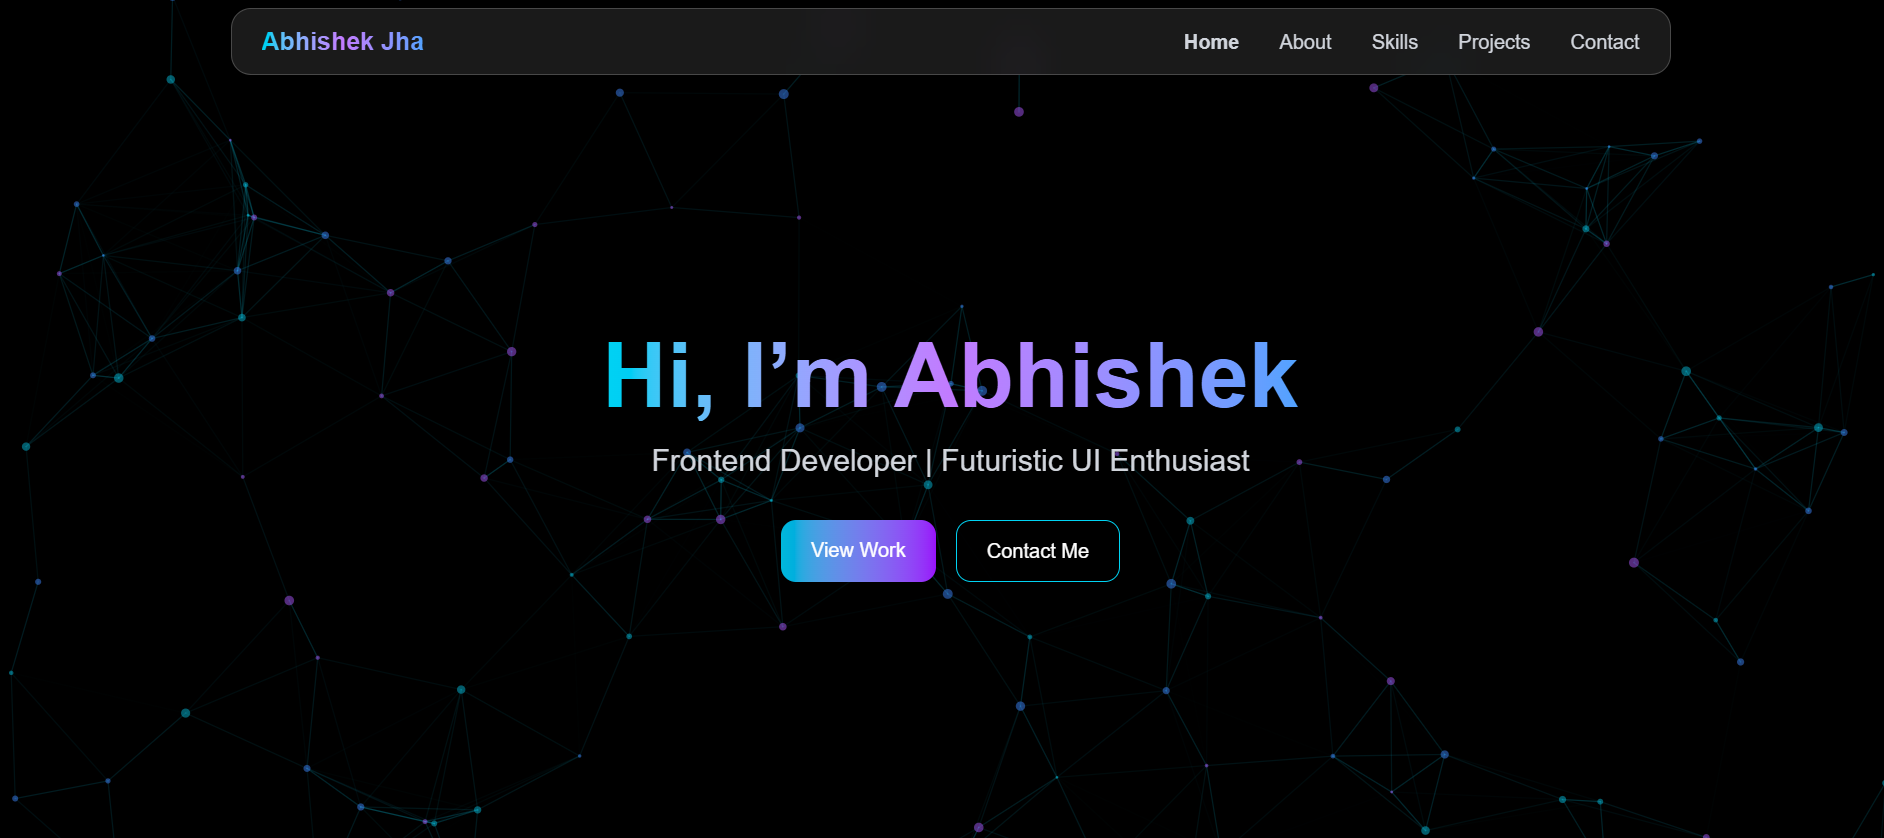
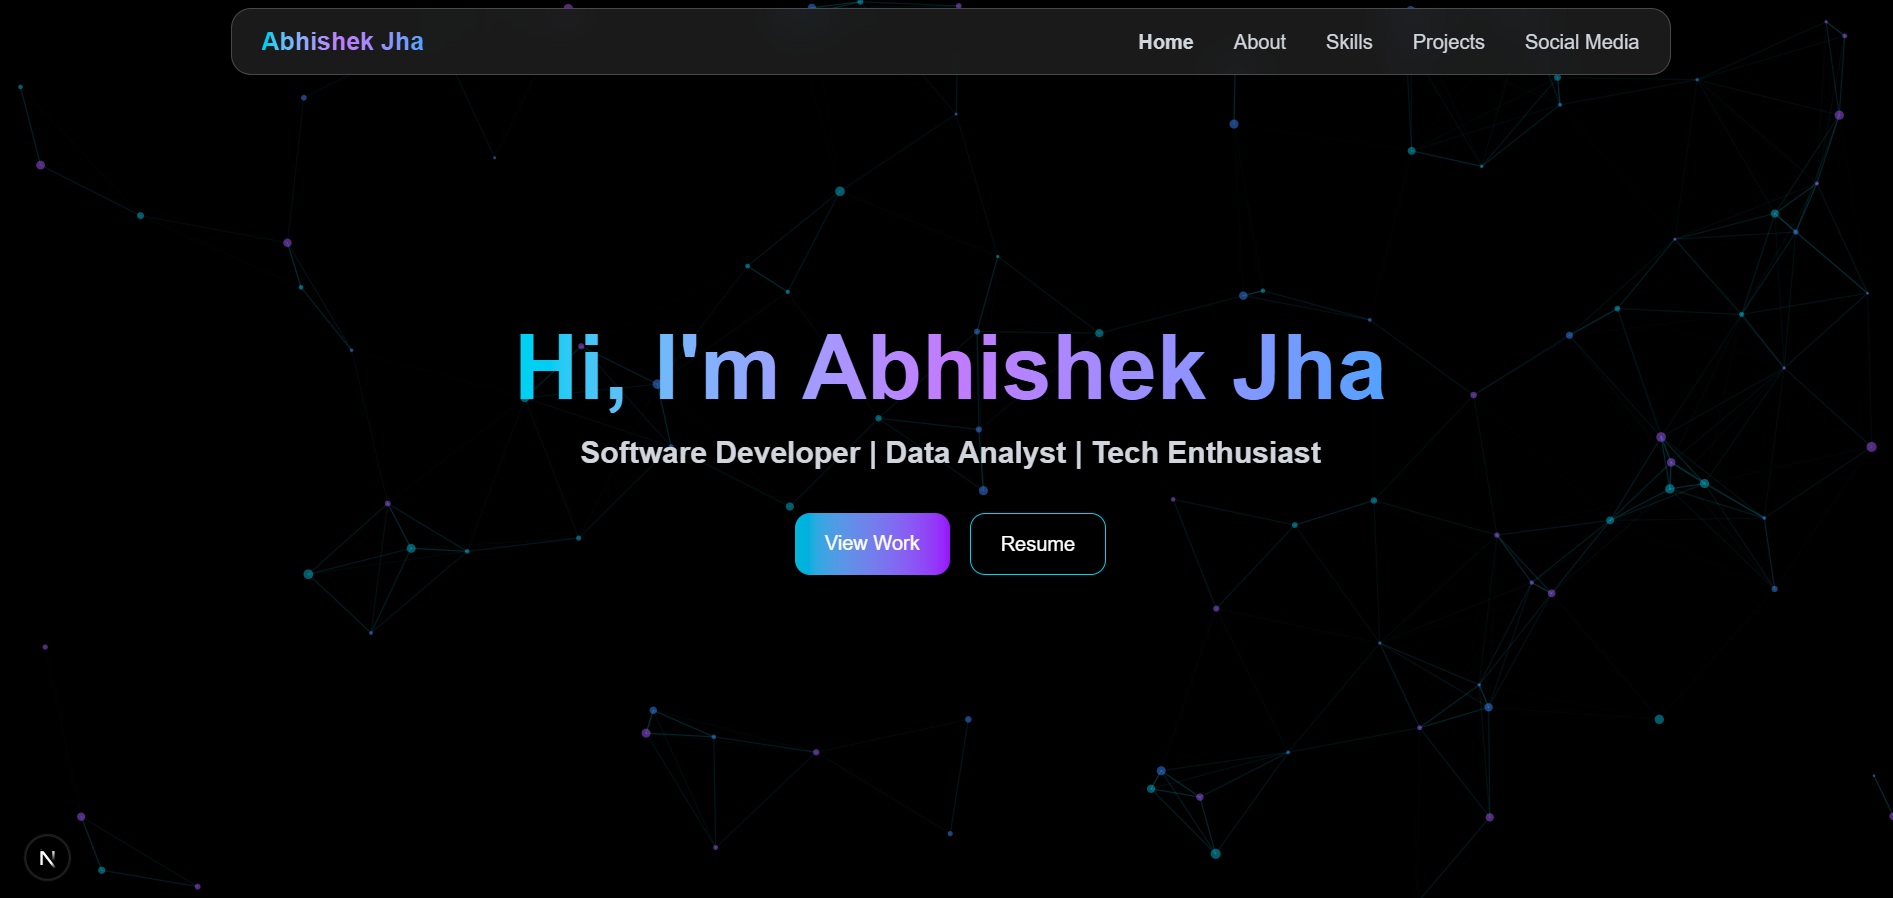
Project addition and profile changes

diff --git a/components/Projects.jsx b/components/Projects.jsx
@@ -2,30 +2,51 @@ const projects = [
   {
     title: "Portfolio",
     desc: "A modern developer portfolio built with Next.js and Tailwind.",
-    img: "/project1.png",
+    img: "/Project1.png",
     demo: "https://nextjs-abhishek-portfolio.vercel.app/",
     github: "https://github.com/Abhishek2788/nextjs-abhishek-portfolio.git",
   },
   {
     title: "Makhana E-Commerce",
-    desc: "E-commerce platform for Bihar's Makhana using Next.js.",
-    img: "/project2.png",
+    desc: "E-commerce platform for Bihar's Makhana using Next.js. Features include product browsing, detailed views, and a responsive design.",
+    img: "/Project2.png",
     demo: "https://biharmakhana.vercel.app/",
     github: "https://github.com/Abhishek2788/Bihar-s-Makhana.git",
   },
   {
     title: "Indian Saviours",
     desc: "Educational Website showing the valor of Indian armed forces using Next.js. Currently in development Mode.",
-    img: "/project3.png",
+    img: "/Project3.png",
     demo: "#",
     github: "https://github.com/Abhishek2788/Indian-Saviours.git",
   },
   {
-    title: "Buzzlab",
-    desc: "The project focuses on showcasing alcoholic drinks and cocktails with a modern and interactive design.",
-    img: "/project4.png",
+    title: "Product based Project",
+    desc: "The project focuses on showcasing alcoholic drinks and cocktails with a modern and interactive design. It includes features like drink search, detailed recipe views, and a responsive layout. Built with Next.js, Tailwind CSS, and JavaScript.",
+    img: "/Project4.png",
     demo: "https://buzzlab-world-of-drinks.vercel.app/",
     github: "https://github.com/Abhishek2788/buzzlab-world-of-drinks.git",
+  },
+  {
+    title: "Gaming Tournament Platform",
+    desc: "Built with Next.js (App Router), Tailwind CSS, and JavaScript to deliver a responsive, high-performance, and gaming-themed user experience.",
+    img: "/Project5.png",
+    demo: "https://gamehok-assignment-nine.vercel.app/",
+    github: "https://github.com/Abhishek2788/gamehok-assignment.git",
+  },
+  {
+    title: "Sales Dashboard",
+    desc: "This project is a sales dashboard buil using excel. It provides a comprehensive overview of sales performance, trends, and key metrics.",
+    img: "/Project6.png",
+    demo: "#",
+    github: "https://github.com/Abhishek2788/Sales-Analysis-project-Excel.git",
+  },
+  {
+    title: "Superstore Sales Dashboard",
+    desc: "This project is a sales dashboard built using Excel. It provides a comprehensive overview of superstore sales performance, trends, and key metrics. Here, I organized and processed the dataset to uncover trends in sales, profitability, delivery performance, and regional demand.",
+    img: "/Project7.png",
+    demo: "#",
+    github: "https://github.com/Abhishek2788/Excel-Data-Analyst-Sales_Dashboard.git",
   },
 ];
 

diff --git a/components/Skills.jsx b/components/Skills.jsx
@@ -1,17 +1,26 @@
+import Image from "next/image";
 import SectionWrapper from "./SectionWrapper";
 
 export default function Skills() {
   const skills = [
-    { name: "Next.js", icon: "⚡" },
-    { name: "Tailwind CSS", icon: "🎨" },
-    { name: "JavaScript", icon: "📜" },
-    { name: "React", icon: "⚛" },
-    { name: "Node.js", icon: "🟢" },
+    { name: "HTML5", icon: "/icons/HTML5.svg" },
+    { name: "CSS", icon: "/icons/CSS3.svg" },
+    { name: "JavaScript", icon: "/icons/JavaScript.svg" },
+    { name: "Java", icon: "/icons/Java.svg" },
+    { name: "React", icon: "/icons/React.svg" },
+    { name: "Tailwind CSS", icon: "/icons/Tailwind CSS.svg" },
+    { name: "Next.js", icon: "/icons/Next.js.svg" },
+    { name: "Node.js", icon: "/icons/Node.js.svg" },
+    { name: "Express", icon: "/icons/Express.svg" },
+    { name: "SQL", icon: "/icons/Sql.svg" },
+    { name: "Excel", icon: "/icons/Excel.svg" },
+    { name: "Git", icon: "/icons/Git.svg" },
+    
   ];
 
   return (
     <SectionWrapper id="skills">
-      <div className="py-20 px-6 bg-gradient-to-b from-black via-purple-950 to-black">
+      <div className="py-20 px-6">
         <h2 className="text-4xl font-bold text-center mb-12 text-purple-400">
           Skills
         </h2>
@@ -19,9 +28,9 @@ export default function Skills() {
           {skills.map((skill, i) => (
             <div
               key={i}
-              className="p-6 rounded-xl bg-white/10 border border-white/20 backdrop-blur-lg hover:scale-105 hover:shadow-[0_0_15px_rgba(168,85,247,0.7)] transition"
+              className="p-6 rounded-xl bg-white/10 border border-white/20 backdrop-blur-lg hover:scale-105 hover:shadow-[0_0_15px_rgba(168,85,247,0.7)] transition flex flex-col items-center"
             >
-              <div className="text-4xl">{skill.icon}</div>
+              <div className=""><Image src={skill.icon} alt={skill.name} width={54} height={54} /></div>
               <p className="mt-2 text-lg">{skill.name}</p>
             </div>
           ))}

diff --git a/components/Hero.jsx b/components/Hero.jsx
@@ -62,7 +62,7 @@ export default function Hero() {
         }}
         className="absolute inset-0 z-0" // ensures particles are behind content
       />
-
+      
       {/* Hero Content */}
       <motion.div
         initial={{ opacity: 0, y: 30 }}
@@ -70,11 +70,11 @@ export default function Hero() {
         transition={{ duration: 1 }}
         className="relative z-10 px-6"
       >
-        <h1 className="text-5xl md:text-7xl font-bold bg-gradient-to-r from-cyan-400 via-purple-400 to-blue-400 bg-clip-text text-transparent">
+        <h1 className="text-4xl md:text-7xl font-bold bg-gradient-to-r from-cyan-400 via-purple-400 to-blue-400 bg-clip-text text-transparent">
           Hi, I'm Abhishek Jha
         </h1>
-        <p className="mt-4 text-xl md:text-2xl text-gray-300">
-          Frontend Developer | UI Enthusiast
+        <p className="mt-4 font-bold text-[14px] sm:text-xl md:text-2xl text-gray-300">
+          Software Developer | Data Analyst | Tech Enthusiast
         </p>
         <div className="mt-8 flex gap-4 justify-center">
           <a
@@ -84,10 +84,10 @@ export default function Hero() {
             View Work
           </a>
           <a
-            href="#contact"
+            href="https://docs.google.com/document/d/1UDCFwSzaAkPuikewN8ZvDI8FwLLNlf_EuqvQRQJMvaU/edit?usp=sharing" target="_blank"
             className="px-6 py-3 rounded-xl border border-cyan-400 hover:bg-cyan-400/10 transition"
           >
-            Contact Me
+            Resume
           </a>
         </div>
       </motion.div>

diff --git a/components/About.jsx b/components/About.jsx
@@ -3,11 +3,11 @@ import SectionWrapper from "./SectionWrapper";
 export default function About() {
   return (
     <SectionWrapper id="about">
-      <div className="py-20 px-6 bg-black">
+      <div className="py-20 px-6">
         <div className="max-w-4xl mx-auto text-center">
           <div className="bg-white/10 backdrop-blur-lg rounded-2xl p-10 border border-white/20">
             <img
-              src="/profile.png"
+              src="/Profile.png"
               alt="Profile"
               className="w-32 h-32 mx-auto rounded-full border-4 border-cyan-400 mb-6"
             />

diff --git a/components/Contact.jsx b/components/Contact.jsx
@@ -3,7 +3,7 @@ import SectionWrapper from "./SectionWrapper";
 export default function Contact() {
   return (
     <SectionWrapper id="contact">
-      <div className="py-20 px-6 bg-gradient-to-b from-black via-purple-950 to-black text-center">
+      <div className="py-20 px-6 text-center">
         <h2 className="text-4xl font-bold text-cyan-400 mb-8">Contact Me</h2>
         <form className="max-w-xl mx-auto flex flex-col gap-4">
           <input

diff --git a/components/Footer.jsx b/components/Footer.jsx
@@ -1,6 +1,6 @@
 export default function Footer() {
   return (
-    <footer className="py-6 bg-black border-t border-white/20 text-center text-gray-400">
+    <footer className="py-6 border-t border-white/20 text-center text-gray-400">
       © {new Date().getFullYear()} Abhishek. All rights reserved.
       <div className="mt-2 flex justify-center gap-6">
         <a href="#" className="hover:text-cyan-400 transition">LinkedIn</a>

diff --git a/components/Socials.jsx b/components/Socials.jsx
@@ -19,7 +19,7 @@ export default function SocialMedia() {
 
   return (
     <SectionWrapper id="socialmedia">
-      <div className="py-20 px-6 text-center bg-black">
+      <div className="py-20 px-6 text-center">
         <h2 className="text-4xl font-bold text-cyan-400 mb-12">Follow Me</h2>
         <div className="flex flex-wrap justify-center gap-8 relative">
           {socials.map((social, index) => (

diff --git a/app/page.jsx b/app/page.jsx
@@ -17,8 +17,8 @@ export default function Home() {
       <section id="skills"><Skills /></section>
       <section id="projects"><Projects /></section>
       <section id="socials"><Socials /></section>
-      <section id="contact"><Contact /></section>
-      <Footer />
+      {/* <section id="contact"><Contact /></section> */}
+      {/* <Footer /> */}
     </main>
   );
 }

diff --git a/components/Navbar.jsx b/components/Navbar.jsx
@@ -9,7 +9,7 @@ const navLinks = [
   { name: "Skills", href: "#skills" },
   { name: "Projects", href: "#projects" },
   { name: "Social Media", href: "#socialmedia" },
-  { name: "Contact", href: "#contact" },
+  // { name: "Contact", href: "#contact" },
 ];
 
 export default function Navbar() {
